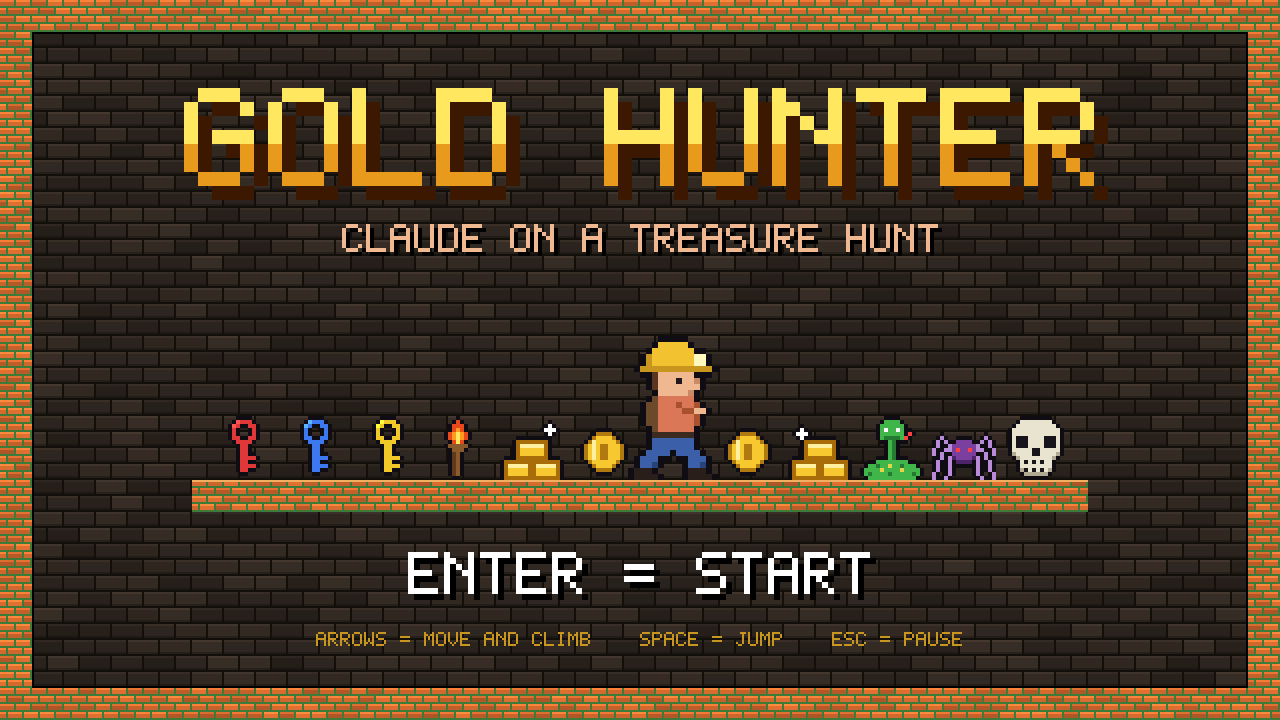
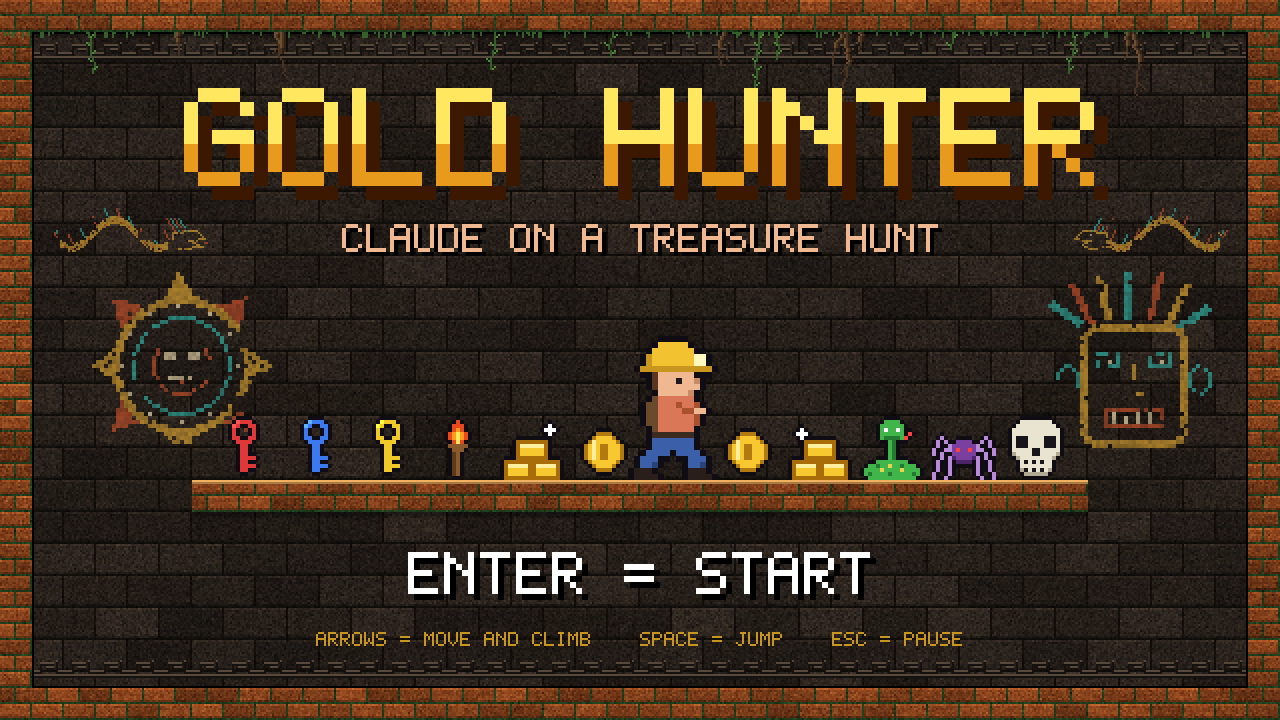
Titelbild im Pyramiden-Look
Verwitterte Steinbloecke, Friese, Wandmalereien (Sonnenscheibe, Maske, gefiederte Schlangen) und Moos - passend zu den Raeumen.

diff --git a/build/make_assets.py b/build/make_assets.py
@@ -536,7 +536,12 @@ VINE = [rgb('#35602A'), rgb('#4E8A38')]
 
 def weathered(img):
     """Stein mit Koernung (immer dieselbe, damit die Bilder gleich bleiben)"""
-    return ImageChops.soft_light(img, NOISE)
+    noise = NOISE
+    if img.size != NOISE.size:                                # anderes Format (Titelbild): Koernung kacheln
+        noise = Image.new('RGB', img.size)
+        for yy in range(0, img.size[1], RH):
+            noise.paste(NOISE, (0, yy))
+    return ImageChops.soft_light(img.convert('RGB'), noise)
 
 
 def mural(kind, seed):
@@ -919,18 +924,43 @@ def hud_sample(hud):
 
 
 def draw_title():
-    th = THEMES[0]
-    im = brick_layer(W, 360, 16, 8, rgb(th['back']), rgb(th['back_mortar']), 5, 0.2)
-    wall = brick_layer(W, 360, 8, 4, rgb(th['brick']), rgb(th['mortar']), 6)
+    """Titelbild im Pyramiden-Look wie die Raeume: verwitterte Steinbloecke, Friese, Wandmalereien, Wurzeln"""
+    th = {k: (rgb(v) if k != 'name' else v) for k, v in THEMES[0].items()}
+    back = weathered(brick_layer(W, 360, 32, 16, shade(th['back'], 0.85), th['back_mortar'], 5, 0.22)).convert('RGBA')
+    bd = ImageDraw.Draw(back)
+    hi, lo = shade(th['back'], 1.9), shade(th['back'], 0.45)
+    for y in (21, 330):                                        # Friese oben und unten
+        for x in range(16, W - 16, 16):
+            for pts in ([0, 5, 4, 5], [4, 5, 4, 1], [4, 1, 10, 1], [10, 1, 10, 3], [10, 3, 7, 3], [12, 5, 15, 5], [12, 5, 12, 0], [0, 7, 15, 7]):
+                bd.line([x + pts[0], y + pts[1], x + pts[2], y + pts[3]], fill=hi)
+                bd.line([x + pts[0], y + pts[1] + 1, x + pts[2], y + pts[3] + 1], fill=lo)
+    # grosse Wandmalereien links und rechts (doppelt so gross wie in den Raeumen), Schlangen neben dem Untertitel
+    for kind, x, y, k in ((0, 26, 134, 2), (3, 518, 134, 2), (2, 24, 100, 1), (2, 536, 100, 1)):
+        m = mural(kind, 900 + kind + x)
+        m = m.resize((m.width * k, m.height * k), Image.NEAREST)
+        if x > W // 2 and kind == 2:
+            m = mirror(m)
+        back.alpha_composite(m, (x, y))
+    wall = weathered(brick_layer(W, 360, 16, 8, shade(th['brick'], 0.62), shade(th['mortar'], 0.50), 6, 0.18))
     mask = Image.new('L', (W, 360), 0)
     md = ImageDraw.Draw(mask)
     md.rectangle([0, 0, W - 1, 359], fill=255)
     md.rectangle([16, 16, W - 17, 343], fill=0)
     md.rectangle([96, 240, W - 97, 255], fill=255)             # Sockel fuer die Figuren
-    im = Image.composite(wall, im, mask).convert('RGBA')
+    im = Image.composite(wall, back.convert('RGB'), mask).convert('RGBA')
     d = ImageDraw.Draw(im)
-    d.line([96, 240, W - 97, 240], fill=rgb(th['trim']))
+    d.line([96, 240, W - 97, 240], fill=th['trim'])
+    d.line([96, 241, W - 97, 241], fill=shade(th['trim'], 0.7))
+    for k, a in enumerate((120, 80, 45)):                      # Schatten unter Rahmen und Sockel
+        sh = Image.new('RGBA', (W, 360), (0, 0, 0, 0))
+        sd = ImageDraw.Draw(sh)
+        sd.line([16, 16 + k, W - 17, 16 + k], fill=(0, 0, 0, a))
+        sd.line([96, 256 + k, W - 97, 256 + k], fill=(0, 0, 0, a))
+        im = Image.alpha_composite(im, sh)
+    d = ImageDraw.Draw(im)
     d.rectangle([16, 16, W - 17, 343], outline=(0, 0, 0))
+    # Wurzeln und Ranken von der Decke (wie in den Raeumen: Decke = Zeile 0)
+    grow_roots(d, ['#' * COLS] + ['.' * COLS] * (ROWS - 1), 77)
     title = 'GOLD HUNTER'
     text(im, (W - text_w(title, 7)) // 2, 44, title, GOLD, 7, shadow=(60, 24, 0), col2=GOLD_LO)
     sub = 'CLAUDE ON A TREASURE HUNT'
